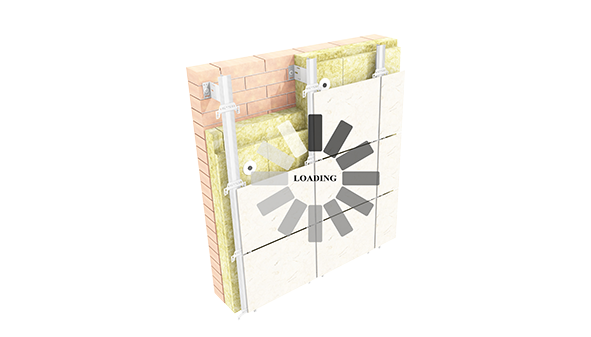
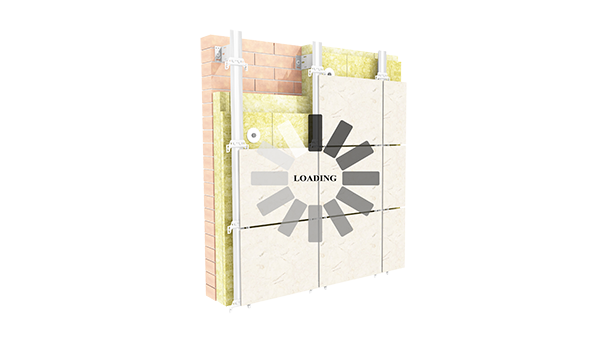
check pic

Changed region(s): [[0.3046, 0.089, 0.7005, 0.9496], [0.4873, 0.8605, 0.5178, 0.8902]]

diff --git a/vf2(b).html b/vf2(b).html
@@ -86,7 +86,9 @@
 								    
 									
 									<!-- vf2(b) (Max К) -->
-									<model-viewer id="reveal" loading="eager" poster="images/vf1b.png" src="https://poly.googleusercontent.com/downloads/c/fp/1596707536737077/7f2CiNPxhZx/18lwNezWntW/model.gltf" ar ar-modes="webxr scene-viewer quick-look fallback" ar-scale="auto" magic-leap camera-controls ios-src="https://poly.googleusercontent.com/downloads/c/fp/1596707536737077/7f2CiNPxhZx/dIP28KOKQpP/model.usdz" alt="vf1(b) (Max К)" background-color="##fafafa" camera-controls auto-rotate > </model-viewer>
+									<model-viewer id="reveal" loading="eager" poster="images/vf2b.png" src="https://poly.googleusercontent.com/downloads/c/fp/1597399015922325/6r9OjabJk7i/3mzxzbudwfx/model.gltf" ar ar-modes="webxr scene-viewer quick-look fallback" ar-scale="auto" magic-leap camera-controls ios-src="https://poly.googleusercontent.com/downloads/c/fp/1597399015922325/6r9OjabJk7i/1xez9Rw7i_j/model.usdz" alt="vf2(b) (Максим Kolbysh)" background-color="##fafafa" camera-controls auto-rotate > </model-viewer>
+
+									
 
 									
 									
